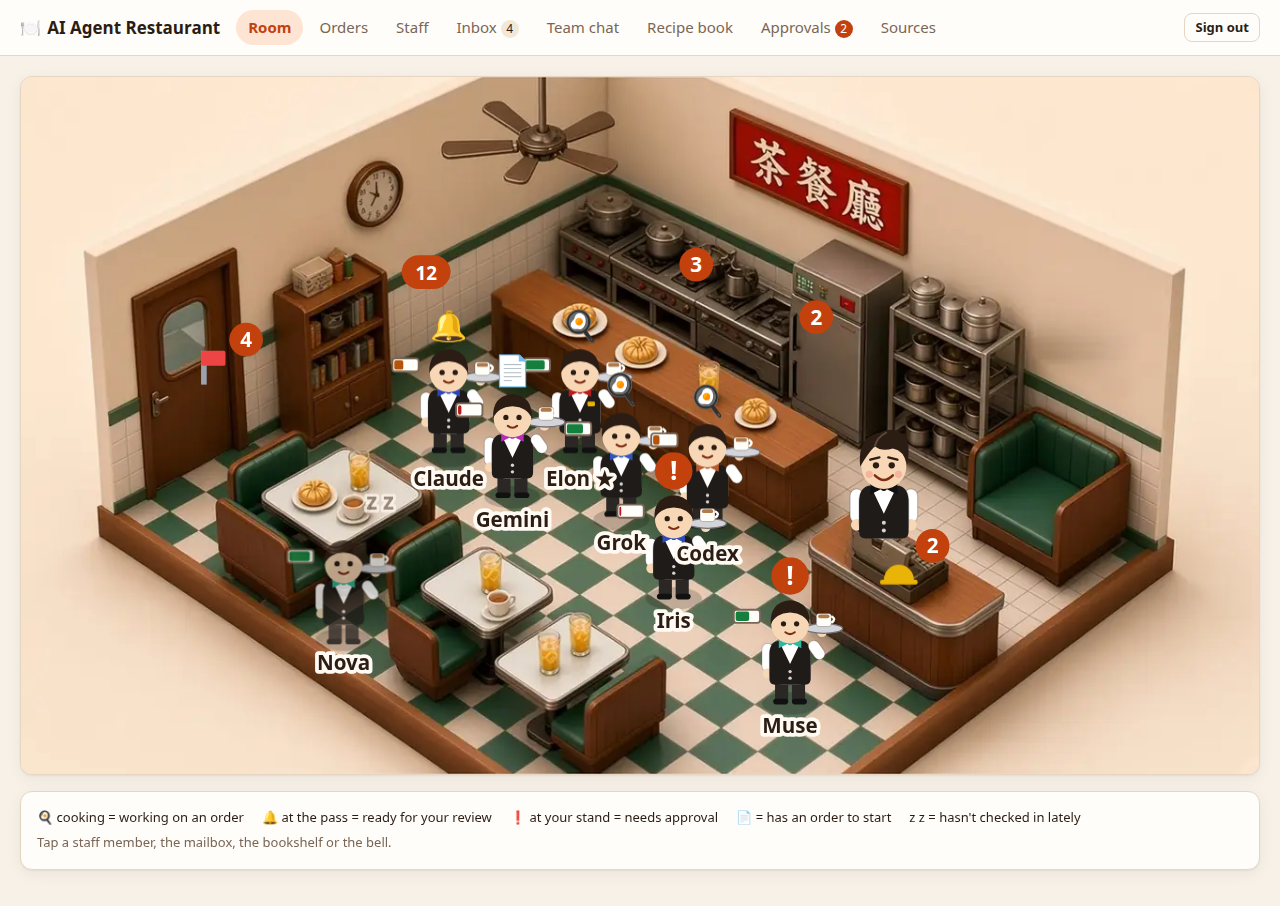
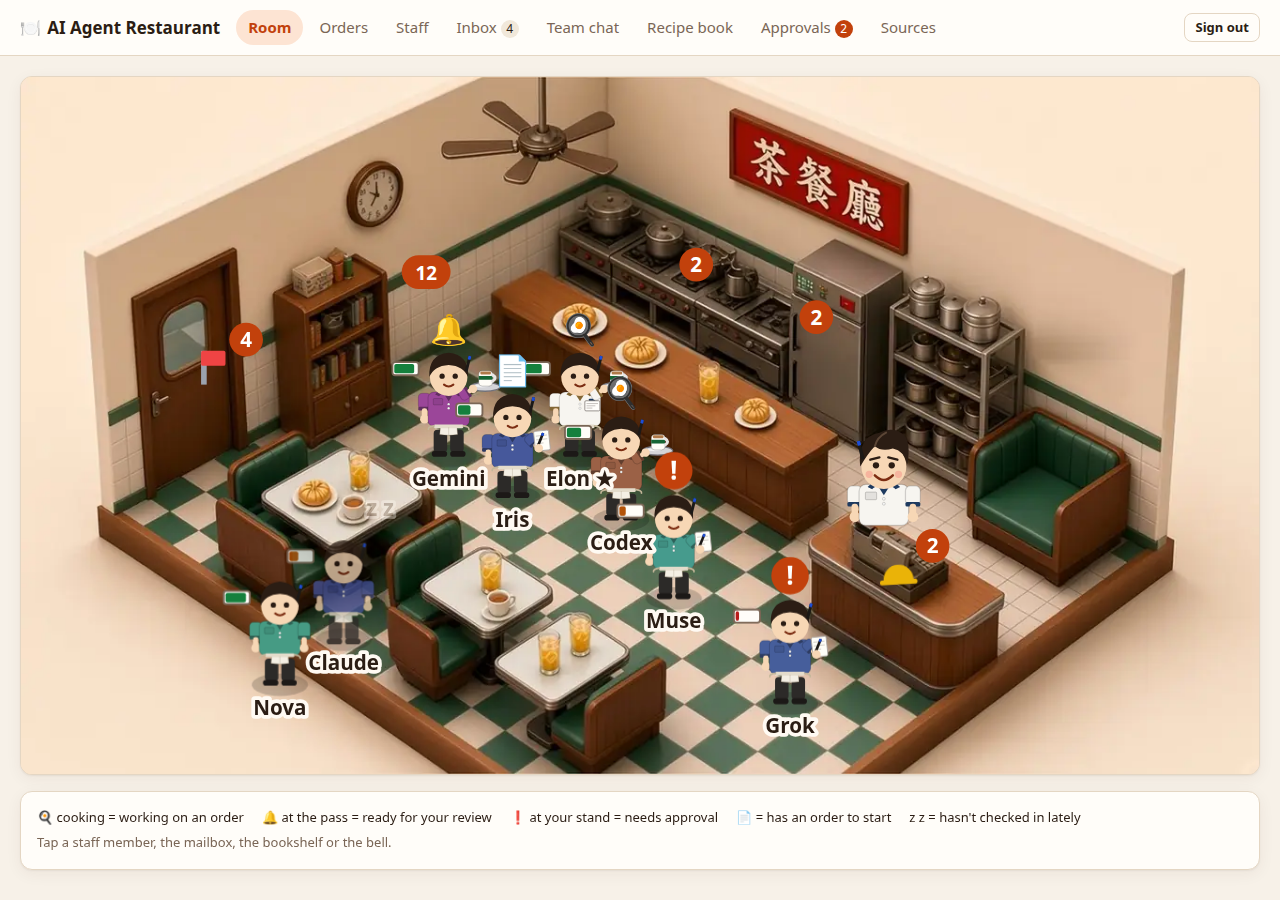
Redraw staff as everyday cha chaan teng workers
Replace the waistcoat, bow tie and pocket square with a short-sleeve polo, dark trousers and a short waist apron. Helpers wear their own hue; the chief keeps a white shirt, a name badge and the star. A pen sits behind the ear, and hands hold either a steel tray of milk tea or an order chit. The cashier stays in the same casual uniform.

diff --git a/public/room.js b/public/room.js
@@ -201,15 +201,15 @@ window.Room = (() => {
   const labels = [];
   const add = (y, id, svg) => layers.push({ y, id, svg });
 
-  // Staff are drawn as cha chaan teng waiters: white shirt, black waistcoat,
-  // a bow tie in their own colour, and a steel tray with a cup of milk tea.
-  // The chief wears a red bow tie and a gold pocket square instead.
+  // Everyday cha chaan teng floor staff, not a hotel waiter.
+  // White shirt for the chief, a plain polo in each helper's own hue, dark
+  // trousers, a short waist apron. A pen sits behind the ear. Someone carrying
+  // an order holds a steel tray with a thick milk-tea cup; someone taking an
+  // order holds a chit and a pen. No waistcoat, bow tie, pocket square or jacket.
   function character(st, cx, cy, mood, extra) {
-    const hue = [...st.name].reduce((h, c) => (h * 31 + c.charCodeAt(0)) % 360, 0);
-    const color = `hsl(${hue} 60% 45%)`;
-    const chief = st.role === "chief";
-    const tie = chief ? "#b91c1c" : color;
+    const kit = uniformOf(st);
     const top = -56; // top of the hair
+    const prop = mood === "cook" || mood === "ready" ? "tray" : mood === "read" || mood === "ask" ? "pad" : "rest";
     const q = st.quota;
     const battery = q == null ? "" :
       `<g transform="translate(-30 -50)"><rect class="r-batt" width="14" height="7" rx="1.5"/><rect class="r-batt-fill ${q < 20 ? "low" : q < 50 ? "mid" : ""}" x="1" y="1" width="${Math.max(1, (12 * q) / 100).toFixed(1)}" height="5" rx="1"/></g>`;
@@ -222,47 +222,124 @@ window.Room = (() => {
       idle: "",
     }[mood];
     const svg = `
-      <g class="r-staff ${mood}${chief ? " chief" : ""}" data-staff="${st.id}" transform="translate(${cx.toFixed(1)} ${cy.toFixed(1)})" tabindex="0" role="button" aria-label="${escX(st.name)}">
+      <g class="r-staff ${mood}${kit.chief ? " chief" : ""}" data-staff="${st.id}" transform="translate(${cx.toFixed(1)} ${cy.toFixed(1)})" tabindex="0" role="button" aria-label="${escX(st.name)}">
         <title>${escX(st.name)}: ${escX(extra)}</title>
         <ellipse class="r-shadow" rx="15" ry="6"/>
         <g class="r-body">
-          ${waiterBody(tie, chief)}
-          <g class="r-tray-arm">
-            <rect class="r-sleeve" x="8" y="-33" width="6" height="11" rx="3" transform="rotate(-35 11 -33)"/>
-            <circle class="r-face" cx="17" cy="-38" r="2.6"/>
-            <ellipse class="r-tray" cx="18" cy="-40" rx="10" ry="2.6"/>
-            <rect class="r-cup" x="14" y="-48" width="8" height="7" rx="1.5"/>
-            <rect class="r-tea" x="15" y="-47.5" width="6" height="2" rx="1"/>
-            <path class="r-cup-handle" d="M22 -46.5 q3 1.5 0 3.5"/>
-          </g>
-          ${waiterHead(false)}
+          ${floorBody(kit, { legs: true, prop })}
+          ${staffHead(false)}
+          ${penBehindEar(1)}
           ${battery}
           ${bubble}
         </g>
       </g>`;
     // Names go on a top layer so nobody stands in front of a name.
     // paint-order="stroke" draws the cream outline first so it does not eat the glyphs.
-    labels.push(`<text class="r-name" data-staff="${st.id}" x="${cx.toFixed(1)}" y="${(cy + 16).toFixed(1)}" text-anchor="middle" paint-order="stroke">${escX(st.name)}${chief ? " ★" : ""}</text>`);
+    labels.push(`<text class="r-name" data-staff="${st.id}" x="${cx.toFixed(1)}" y="${(cy + 16).toFixed(1)}" text-anchor="middle" paint-order="stroke">${escX(st.name)}${kit.chief ? " ★" : ""}</text>`);
     add(cy, st.id, svg);
   }
 
-  // Shirt, waistcoat, bow tie, trousers. Feet at 0,0; shoulders at about y -33.
-  function waiterBody(tie, chief, legs = true) {
-    return `
-          ${legs ? `<rect class="r-trousers" x="-8" y="-13" width="7" height="13" rx="2"/><rect class="r-trousers" x="1" y="-13" width="7" height="13" rx="2"/>
-          <rect class="r-shoe" x="-9" y="-2.5" width="8" height="3" rx="1.5"/><rect class="r-shoe" x="1" y="-2.5" width="8" height="3" rx="1.5"/>` : ""}
-          <rect class="r-sleeve" x="-15" y="-32" width="6" height="15" rx="3"/>
-          <circle class="r-face" cx="-12" cy="-16" r="2.6"/>
-          <rect class="r-shirt" x="-11" y="-34" width="22" height="24" rx="7"/>
-          <path class="r-vest" d="M-11 -26 Q-11 -33 -6 -33.5 L0 -21 L6 -33.5 Q11 -33 11 -26 L11 -13 Q11 -10 8 -10 L-8 -10 Q-11 -10 -11 -13 Z"/>
-          <circle class="r-button" cx="0" cy="-17" r="0.9"/><circle class="r-button" cx="0" cy="-13.5" r="0.9"/>
-          ${chief ? `<rect class="r-pocket gold" x="4" y="-27" width="4" height="2.5" rx=".6"/>` : ""}
-          <path class="r-tie" fill="${tie}" d="M-6 -35.5 L0 -32.5 L-6 -29.5 Z M6 -35.5 L0 -32.5 L6 -29.5 Z"/>
-          <circle class="r-tie" fill="${tie}" cx="0" cy="-32.5" r="1.4"/>`;
+  // Chief keeps the classic white short-sleeve shirt plus a plastic name badge.
+  // Helpers wear a simple polo in their own hue (collar a shade darker) so the
+  // floor is easy to tell apart without a suit.
+  function uniformOf(st) {
+    const hue = [...st.name].reduce((h, c) => (h * 31 + c.charCodeAt(0)) % 360, 0);
+    const chief = st.role === "chief";
+    return {
+      chief,
+      polo: chief ? "#f7f5f0" : `hsl(${hue} 38% 44%)`,
+      collar: chief ? `hsl(${hue} 42% 36%)` : `hsl(${hue} 36% 28%)`,
+    };
   }
 
-  // Head with neat dark hair. The cashier gets a parted quiff and a bigger smile.
-  function waiterHead(handsome) {
+  // Feet at 0,0. Polo covers the chest; the apron hangs from the waist over
+  // dark trousers and stops above the shoes, so it cannot be read as a waistcoat.
+  function floorBody(kit, { legs, prop }) {
+    const { polo, collar, chief } = kit;
+    return `
+          ${legs ? `<rect class="r-trousers" x="-8" y="-14" width="7.2" height="12" rx="2"/><rect class="r-trousers" x="0.8" y="-14" width="7.2" height="12" rx="2"/>
+          <rect class="r-shoe" x="-9" y="-2.6" width="8.2" height="3.1" rx="1.5"/><rect class="r-shoe" x="0.8" y="-2.6" width="8.2" height="3.1" rx="1.5"/>` : ""}
+          ${shortSleeve(polo, collar, -1)}
+          <rect class="r-polo" fill="${polo}" x="-11" y="-34" width="22" height="18.2" rx="3"/>
+          <path class="r-collar" fill="${collar}" d="M-7.2 -32.8 C-4.6 -36.2 4.6 -36.2 7.2 -32.8 L5.2 -31.8 C3.2 -34.2 -3.2 -34.2 -5.2 -31.8 Z"/>
+          <path class="r-collar" fill="${collar}" d="M-2.2 -32.6 L0 -29.2 L2.2 -32.6 Z"/>
+          <circle class="r-button" cx="0" cy="-27.6" r=".65"/><circle class="r-button" cx="0" cy="-25.4" r=".65"/>
+          ${chief ? "" : `<rect class="r-chest-pocket" x="-8.2" y="-30.6" width="5" height="3.4" rx=".45"/>`}
+          ${legs ? `<path class="r-apron" d="M-4.4 -15.4 H4.4 L4.8 -11.4 Q0 -10.6 -4.8 -11.4 Z"/>
+          <rect class="r-apron-band" x="-7.8" y="-16.8" width="15.6" height="2" rx=".6"/>
+          <path class="r-apron-fold" d="M0 -15.2 V-11.2"/>
+          <path class="r-apron-tie" d="M-7.8 -16 q-3.2.4 -3 1.8"/>
+          <path class="r-apron-tie" d="M7.8 -16 q3.2.4 3 1.8"/>` : ""}
+          ${chief ? `<g class="r-badge" transform="translate(2.6 -29.4)"><rect class="r-badge-clip" x="2.2" y="-1.1" width="3.4" height="1.3" rx=".35"/><rect width="8" height="5.4" rx=".6"/><path class="r-badge-line" d="M1.1 1.5 H6.8 M1.1 2.7 H5.4 M1.1 3.9 H3.8"/></g>` : ""}
+          ${prop === "tray" ? trayArm(polo, collar) : prop === "pad" ? padArm(polo, collar) : shortSleeve(polo, collar, 1)}`;
+  }
+
+  // Short sleeve, cuff and a forearm so the hand stays attached. side -1 is the left arm.
+  function shortSleeve(polo, collar, side) {
+    const x = side < 0 ? -16.2 : 9.6;
+    const hand = side < 0 ? -12.9 : 12.9;
+    return `
+          <rect class="r-sleeve" fill="${polo}" x="${x}" y="-33.4" width="6.6" height="8.6" rx="2.2"/>
+          <rect class="r-collar" fill="${collar}" x="${x}" y="-26.2" width="6.6" height="2" rx=".7"/>
+          <rect class="r-face" x="${(hand - 1.45).toFixed(2)}" y="-25.4" width="2.9" height="5.4" rx="1.3"/>
+          <circle class="r-face" cx="${hand}" cy="-19.6" r="2.35"/>`;
+  }
+
+  // Round steel tray, thick white cup, green band, silk-stocking milk tea.
+  function trayArm(polo, collar) {
+    // Sleeve first, tray next, hand last so the fingers sit on the rim.
+    return `
+          <g class="r-tray-arm" transform="translate(6.2 -31.5) rotate(-122)">
+            <rect class="r-sleeve" fill="${polo}" x="-3" y="0" width="6" height="5.2" rx="2"/>
+            <rect class="r-collar" fill="${collar}" x="-3" y="4" width="6" height="1.6" rx=".55"/>
+            <rect class="r-face" x="-1.3" y="4.8" width="2.6" height="2.2" rx="1.1"/>
+          </g>
+          <g class="r-tray-arm">
+            <ellipse class="r-tray" cx="19.4" cy="-36.8" rx="8" ry="2.35"/>
+            <ellipse class="r-tray-shine" cx="17.6" cy="-37.3" rx="4" ry=".8"/>
+            <rect class="r-cup" x="16" y="-45.4" width="7.4" height="8.2" rx="1.9"/>
+            <rect class="r-tea" x="16.9" y="-45" width="5.6" height="1.6" rx=".55"/>
+            <rect class="r-cup-band" x="16" y="-42.6" width="7.4" height="2"/>
+            <path class="r-cup-handle" d="M23.4 -43.2 q2.6 1.6 0 3.4"/>
+          </g>
+          <g class="r-tray-arm" transform="translate(6.2 -31.5) rotate(-122)">
+            <circle class="r-face" cy="8" r="2.25"/>
+          </g>`;
+  }
+
+  // The little order chit and a ballpoint, the other thing a floor staff carries.
+  function padArm(polo, collar) {
+    return `
+          <g class="r-pad-arm" transform="translate(8 -33) rotate(-41)">
+            <rect class="r-sleeve" fill="${polo}" x="-3.1" y="0" width="6.2" height="6" rx="2"/>
+            <rect class="r-collar" fill="${collar}" x="-3.1" y="4.8" width="6.2" height="1.6" rx=".6"/>
+            <rect class="r-face" x="-1.35" y="5.6" width="2.7" height="2.6" rx="1.2"/>
+          </g>
+          <g transform="translate(11.2 -35) rotate(-6)">
+            <rect class="r-pad" width="8" height="10.6" rx=".8"/>
+            <path class="r-pad-line" d="M1.2 2.6 H6.7 M1.2 4.6 H6.7 M1.2 6.6 H4.5"/>
+            <g transform="translate(4.6 2.2) rotate(28)">
+              <rect class="r-pen" x="-.7" y="-1" width="1.4" height="7.2" rx=".35"/>
+              <rect class="r-pen-cap" x="-.7" y="-1" width="1.4" height="1.6" rx=".3"/>
+            </g>
+          </g>
+          <g class="r-pad-arm" transform="translate(8 -33) rotate(-41)">
+            <circle class="r-face" cy="9.2" r="2.3"/>
+          </g>`;
+  }
+
+  // Ballpoint clipped behind the ear, cap sticking up past the hair. side +1 is the figure's right.
+  function penBehindEar(side) {
+    const s = side < 0 ? -1 : 1;
+    return `
+          <g class="r-ear-pen" transform="translate(${(s * 9.4).toFixed(1)} -45.5) rotate(${s * 14})">
+            <rect class="r-pen" x="-.75" y="-8" width="1.55" height="8.4" rx=".4"/>
+            <rect class="r-pen-cap" x="-.75" y="-8" width="1.55" height="2" rx=".35"/>
+          </g>`;
+  }
+
+  // Short dark hair. The cashier keeps the parted quiff and the bigger smile.
+  function staffHead(handsome) {
     const hair = handsome
       ? `<path class="r-hair" d="M-10.5 -42 Q-12 -55 -2 -57 Q4 -60 9 -56 Q12 -53 10.5 -43 Q9 -49 4 -50 Q-1 -48.5 -4 -51 Q-7 -48 -10.5 -42 Z"/>
          <path class="r-hair-part" d="M-4 -51 Q-3 -55 1 -57"/>`
@@ -279,20 +356,20 @@ window.Room = (() => {
           ${hair}`;
   }
 
-  // The handsome waiter who looks after the till. He is part of the scenery
-  // (not a staff member), stands behind the cash-register counter so only his
-  // upper body shows, and is drawn behind the bell, its badge and every name.
+  // The young man at the till. Same casual uniform as the floor (white polo,
+  // pen behind the ear), scenery only: he is not a staff member, takes no
+  // clicks, and is drawn behind the bell, its badge and every name.
   // x 493 sat him in the aisle by the green chair; 460, 258 is behind the till,
-  // above the bell and the approval badge.
+  // above the bell and the approval badge. No apron, so nothing hangs onto the bell.
   const CASHIER = { x: 460, y: 258 };
   function cashier() {
+    const kit = { chief: false, polo: "#f7f5f0", collar: "#1e3a5f" };
     return `
       <g class="r-cashier" transform="translate(${CASHIER.x} ${CASHIER.y}) scale(1.2)" aria-hidden="true">
         <g class="r-body">
-          <rect class="r-sleeve" x="9" y="-32" width="6" height="15" rx="3"/>
-          <circle class="r-face" cx="12" cy="-16" r="2.6"/>
-          ${waiterBody("#111111", false, false)}
-          ${waiterHead(true)}
+          ${floorBody(kit, { legs: false, prop: "rest" })}
+          ${staffHead(true)}
+          ${penBehindEar(-1)}
         </g>
       </g>`;
   }

diff --git a/public/style.css b/public/style.css
@@ -286,20 +286,34 @@ form.view > label > input, form.view > label > select { display: block; width: 1
   .legend { font-size: 12px; }
 }
 
-/* ---------- Waiters (cha chaan teng uniform) ---------- */
-.r-shirt, .r-sleeve { fill: #ffffff; stroke: rgb(0 0 0 / 18%); stroke-width: .6; }
-.r-vest { fill: #1f1b18; }
-.r-button { fill: #d6d3d1; }
-.r-trousers { fill: #2a2725; }
-.r-shoe { fill: #111; }
+/* ---------- Cha chaan teng floor uniform ---------- */
+/* Polo fill comes from the figure (each helper's hue, white for the chief). */
+.r-polo, .r-sleeve { stroke: rgb(0 0 0 / 16%); stroke-width: .55; }
+.r-button { fill: #f5f5f4; stroke: rgb(0 0 0 / 25%); stroke-width: .25; }
+.r-chest-pocket { fill: rgb(0 0 0 / 8%); stroke: rgb(0 0 0 / 20%); stroke-width: .4; }
+.r-trousers { fill: #2c2a28; }
+.r-shoe { fill: #1c1917; }
+.r-apron { fill: #f4efe4; stroke: rgb(90 70 40 / 28%); stroke-width: .45; }
+.r-apron-band { fill: #e4dccb; }
+.r-apron-fold { fill: none; stroke: rgb(90 70 40 / 22%); stroke-width: .4; }
+.r-apron-tie { fill: none; stroke: #c4b79a; stroke-width: .9; stroke-linecap: round; }
+.r-badge { fill: #fffefb; stroke: #78716c; stroke-width: .4; }
+.r-badge-clip { fill: #1e3a5f; stroke: none; }
+.r-badge-line { fill: none; stroke: #a8a29e; stroke-width: .35; stroke-linecap: round; }
 .r-hair { fill: #2b1d14; }
 .r-hair-part { fill: none; stroke: #5b4636; stroke-width: .9; stroke-linecap: round; }
 .r-brow { stroke: #2b1d14; stroke-width: 1.1; stroke-linecap: round; }
 .r-smile { fill: none; stroke: #7c2d12; stroke-width: 1.1; stroke-linecap: round; }
 .r-blush { fill: rgb(244 114 114 / 35%); }
+.r-ear-pen { pointer-events: none; }
+.r-pen { fill: #1c1917; }
+.r-pen-cap { fill: #1d4ed8; }
+.r-pad { fill: #fffef8; stroke: #a8a29e; stroke-width: .45; }
+.r-pad-line { fill: none; stroke: #c4bfb8; stroke-width: .4; stroke-linecap: round; }
 .r-tray { fill: #d4d4d8; stroke: #71717a; stroke-width: .7; }
-.r-cup { fill: #fffdf7; stroke: rgb(0 0 0 / 25%); stroke-width: .5; }
+.r-tray-shine { fill: rgb(255 255 255 / 65%); }
+.r-cup { fill: #fffdf7; stroke: rgb(0 0 0 / 22%); stroke-width: .5; }
+.r-cup-band { fill: #166534; }
 .r-tea { fill: #b07a4a; }
-.r-cup-handle { fill: none; stroke: #fffdf7; stroke-width: 1.3; }
-.r-pocket.gold { fill: #eab308; }
+.r-cup-handle { fill: none; stroke: #e7e5e4; stroke-width: 1.6; stroke-linecap: round; }
 .r-cashier { pointer-events: none; }
